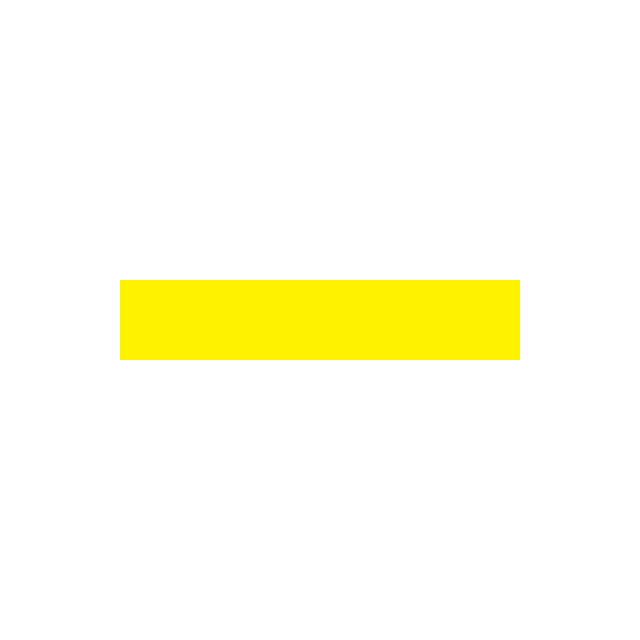
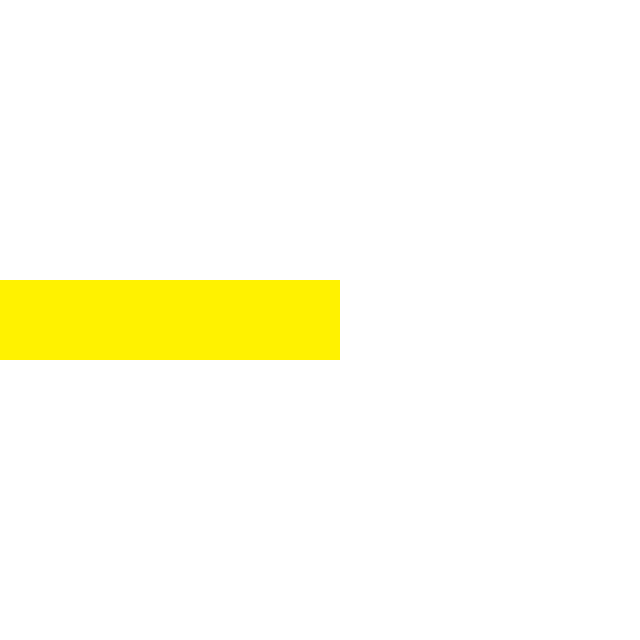
yeah

Changed region(s): [[0.5312, 0.4375, 0.8125, 0.5625], [0.0, 0.4375, 0.1875, 0.5625]]

diff --git a/flip.py b/flip.py
@@ -66,7 +66,7 @@ class Player(pygame.sprite.Sprite):
         if pressed_keys[K_UP] or pressed_keys[K_w]:
             self.rect = (0, 100)
         if pressed_keys[K_DOWN] or pressed_keys[K_s]:
-            self.rect = (0, 200)
+            self.rect = (0, 300)
         if pressed_keys[K_LEFT] or pressed_keys[K_a]:
             self.rect.move_ip(-5, 0)   
         if pressed_keys[K_RIGHT] or pressed_keys[K_d]:
@@ -95,9 +95,9 @@ while True:
             pygame.quit()
             sys.exit()
      
-    DISPLAYSURF.blit(background, (1000,0))
-    DISPLAYSURF.blit(start, (-200,0))
-    DISPLAYSURF.blit(finish, (3000,0))
+    DISPLAYSURF.blit(background, (500,0))
+    DISPLAYSURF.blit(start, (-150,0))
+    DISPLAYSURF.blit(finish, (1000,0))
     # scores = font_small.render(str(SCORE), True, BLACK)
     # DISPLAYSURF.blit(scores, (10,10))
 
